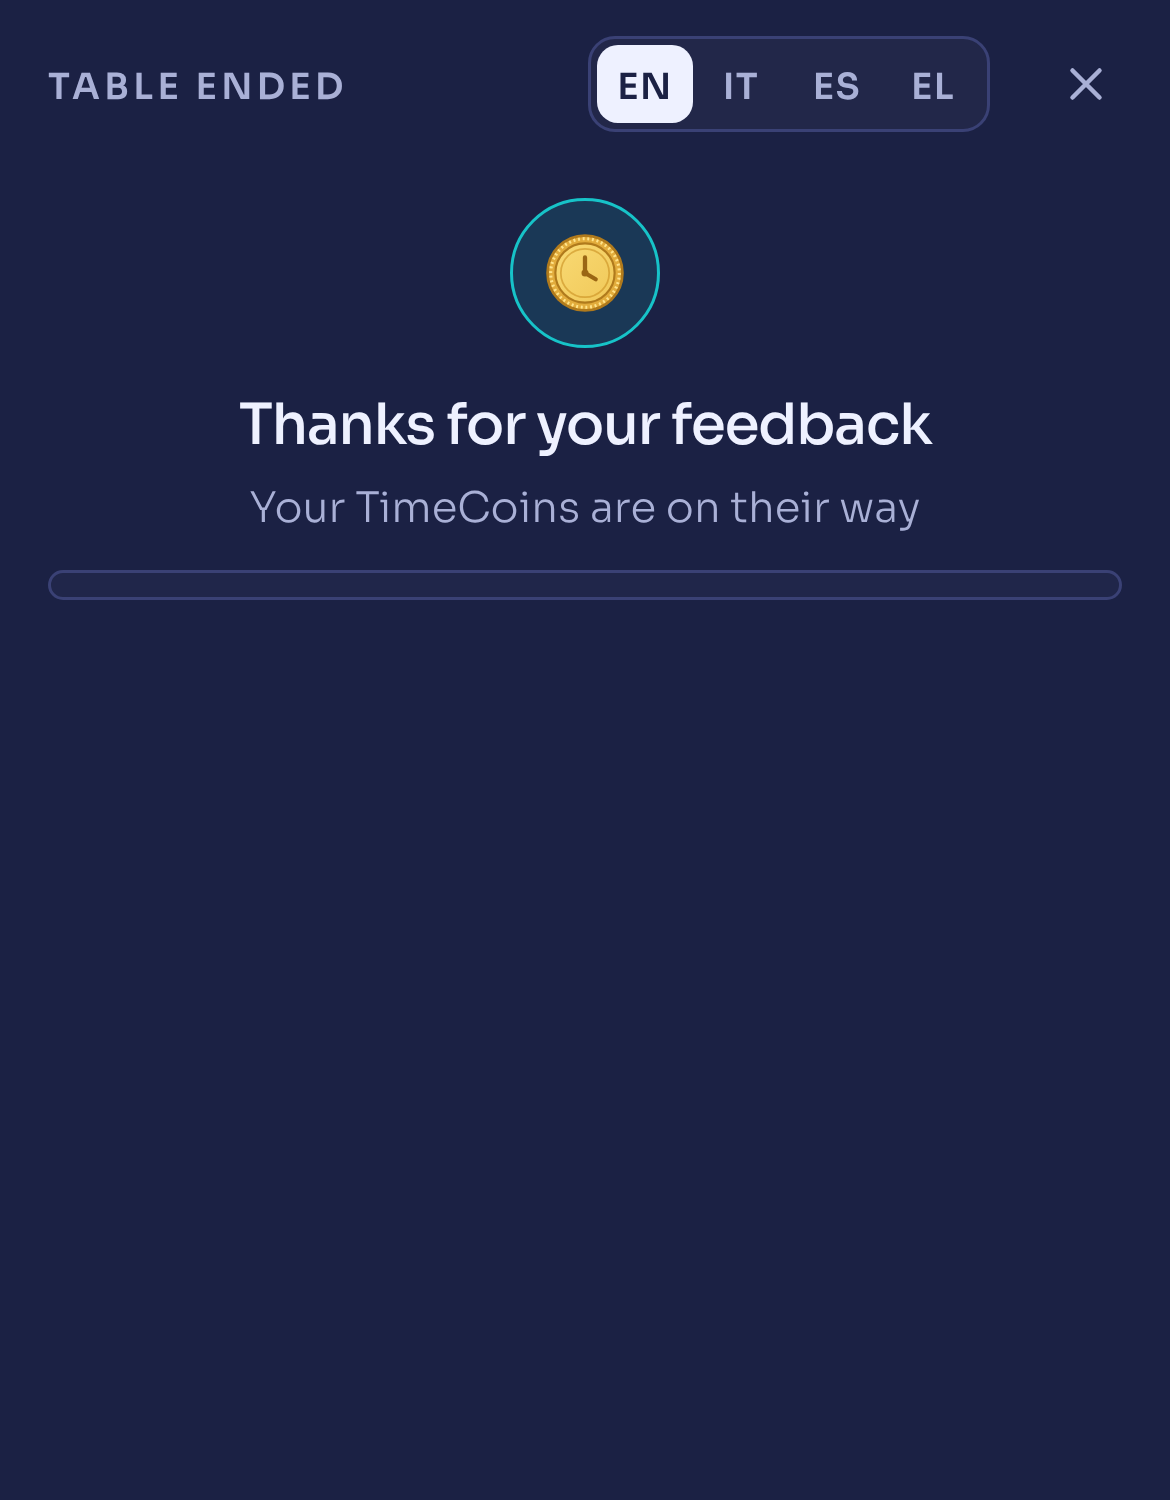
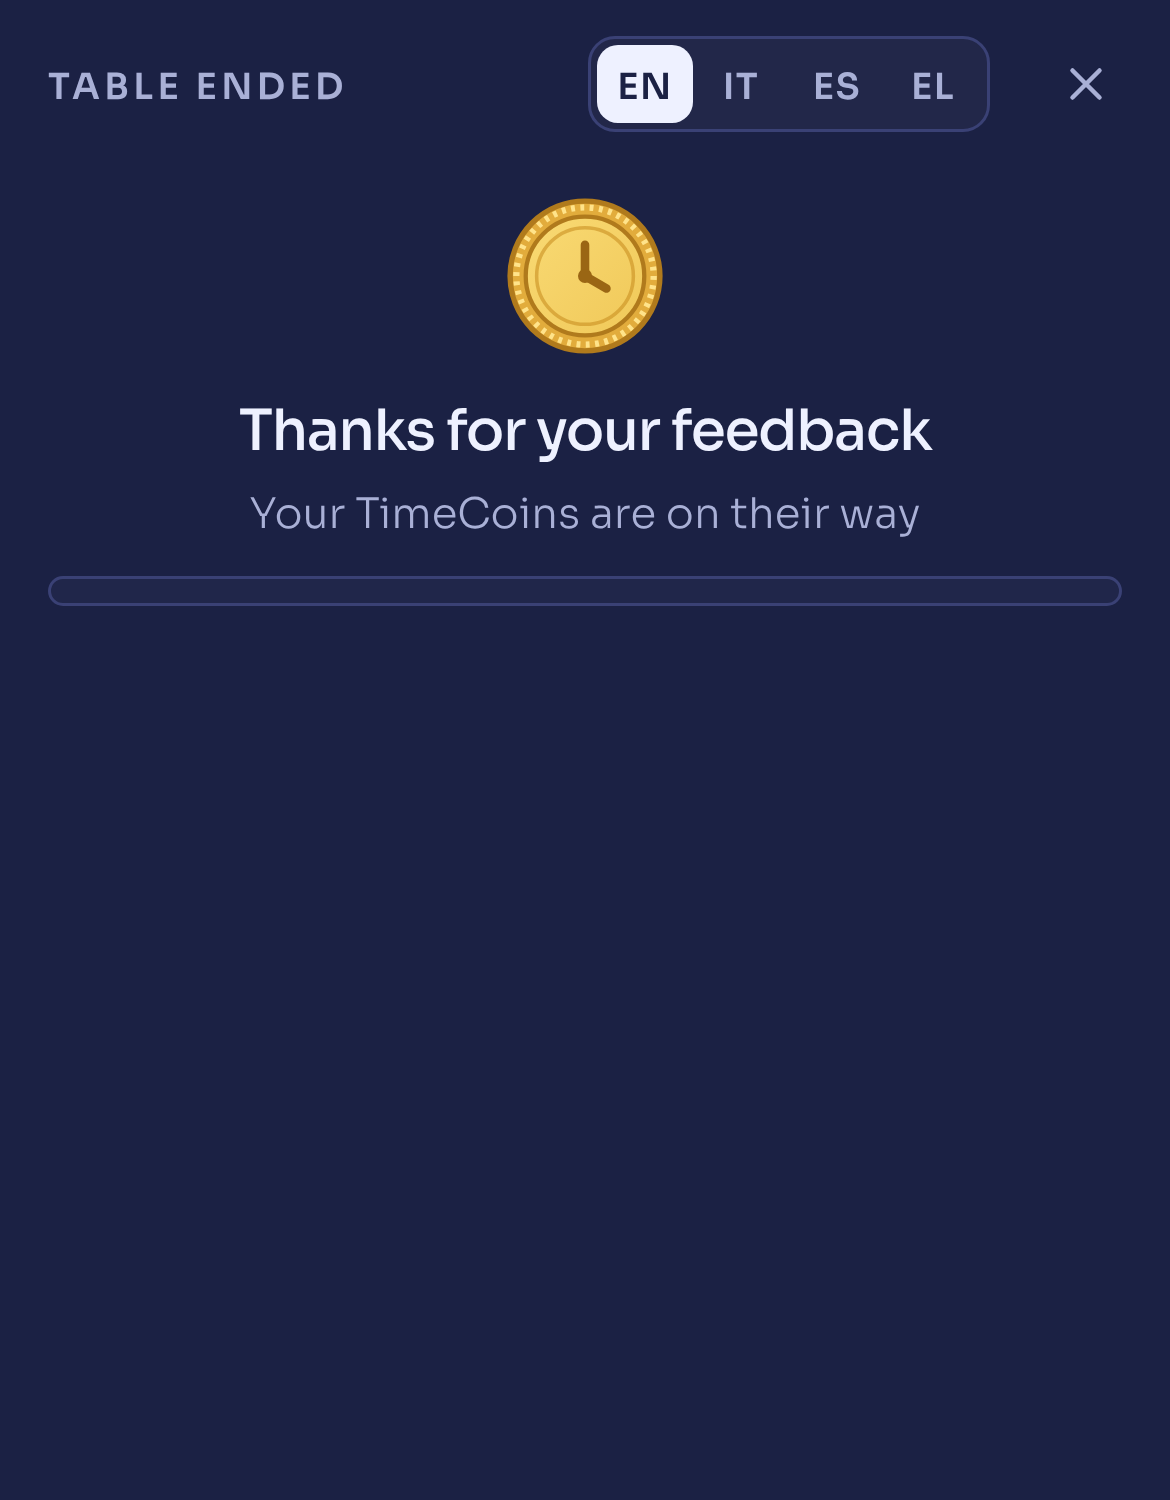
Thanks screen coin plain like the Leave without a tip dialog (#223)
Claude-Session: https://claude.ai/code/session_018eq6NfYbWsoXuU3CP7fwCY

Changed region(s): [[0.0308, 0.2453, 0.9538, 0.4293], [0.4308, 0.1227, 0.5846, 0.2453]]

diff --git a/help/live-pages/mytables.html b/help/live-pages/mytables.html
@@ -2162,8 +2162,8 @@ body .row .act .more{width:30px;height:30px;margin:0 -6px 0 0}
 .card.tbl,.rtpop .card.tbl{padding-bottom:18px!important}
 </style><style id="tc-ratethanks">
 .step.thanks{padding-top:4px!important;gap:12px!important}
-.step.thanks .badge{width:48px!important;height:48px!important;border-width:1px!important}
-.step.thanks .badge svg{width:26px!important;height:26px!important}
+.step.thanks .badge{width:52px!important;height:52px!important;border:0!important;background:none!important}
+.step.thanks .badge svg{width:52px!important;height:52px!important}
 .step.thanks h2{font-size:19px!important;margin-top:2px!important}
 .step.thanks .lead{font-size:14px!important;margin-top:-6px!important}
 </style></body></html>

diff --git a/invite/pages/mytables.html b/invite/pages/mytables.html
@@ -1759,8 +1759,8 @@ render();
 .card.tbl,.rtpop .card.tbl{padding-bottom:18px!important}
 </style><style id="tc-ratethanks">
 .step.thanks{padding-top:4px!important;gap:12px!important}
-.step.thanks .badge{width:48px!important;height:48px!important;border-width:1px!important}
-.step.thanks .badge svg{width:26px!important;height:26px!important}
+.step.thanks .badge{width:52px!important;height:52px!important;border:0!important;background:none!important}
+.step.thanks .badge svg{width:52px!important;height:52px!important}
 .step.thanks h2{font-size:19px!important;margin-top:2px!important}
 .step.thanks .lead{font-size:14px!important;margin-top:-6px!important}
 </style></body></html>

diff --git a/rate-tip/timecapsule-rate-tip.html b/rate-tip/timecapsule-rate-tip.html
@@ -709,8 +709,8 @@ render();
 .card.tbl,.rtpop .card.tbl{padding-bottom:18px!important}
 </style><style id="tc-ratethanks">
 .step.thanks{padding-top:4px!important;gap:12px!important}
-.step.thanks .badge{width:48px!important;height:48px!important;border-width:1px!important}
-.step.thanks .badge svg{width:26px!important;height:26px!important}
+.step.thanks .badge{width:52px!important;height:52px!important;border:0!important;background:none!important}
+.step.thanks .badge svg{width:52px!important;height:52px!important}
 .step.thanks h2{font-size:19px!important;margin-top:2px!important}
 .step.thanks .lead{font-size:14px!important;margin-top:-6px!important}
 </style></body></html>

diff --git a/rate-header/patch_thanks.py b/rate-header/patch_thanks.py
@@ -1,12 +1,12 @@
 """Karim 2026-11-23: the "Thanks for your feedback" screen header is too big, especially the coin logo.
-Smaller coin badge, smaller title, tighter spacing. Re-runnable (replaces block "tc-ratethanks")."""
+Coin shown plain like the "Leave without a tip?" dialog (52px, no teal ring), smaller title, tighter spacing. Re-runnable (replaces block "tc-ratethanks")."""
 import os, re
 ROOT = os.path.dirname(os.path.dirname(os.path.abspath(__file__)))
 FILES = ['rate-tip/timecapsule-rate-tip.html', 'help/live-pages/mytables.html', 'invite/pages/mytables.html']
 CSS = '''<style id="tc-ratethanks">
 .step.thanks{padding-top:4px!important;gap:12px!important}
-.step.thanks .badge{width:48px!important;height:48px!important;border-width:1px!important}
-.step.thanks .badge svg{width:26px!important;height:26px!important}
+.step.thanks .badge{width:52px!important;height:52px!important;border:0!important;background:none!important}
+.step.thanks .badge svg{width:52px!important;height:52px!important}
 .step.thanks h2{font-size:19px!important;margin-top:2px!important}
 .step.thanks .lead{font-size:14px!important;margin-top:-6px!important}
 </style>'''
